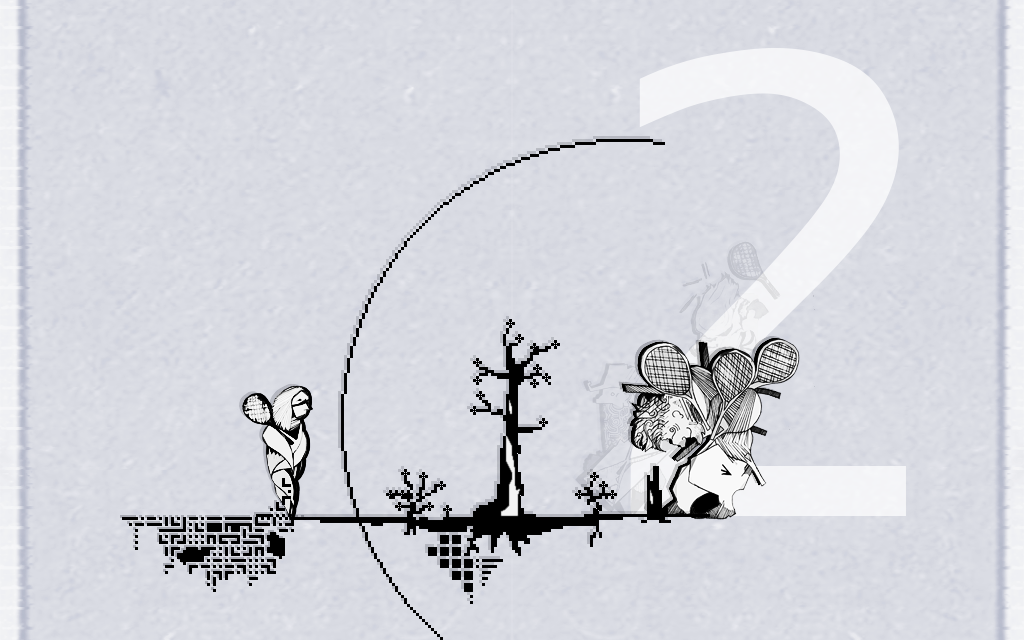
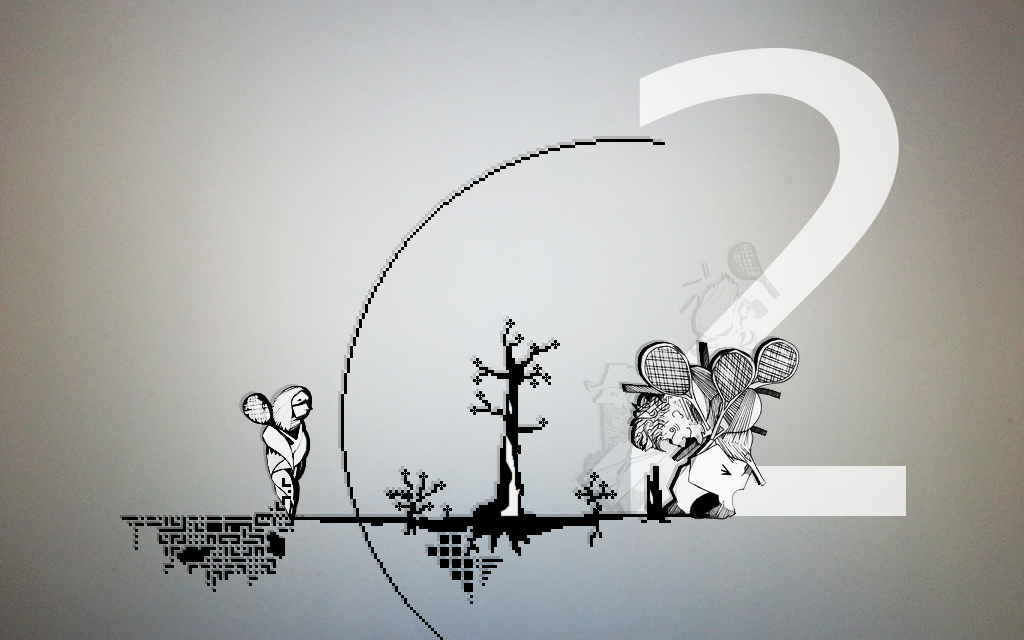
Pull latest backgrounds.

diff --git a/source/scene2view.cpp b/source/scene2view.cpp
@@ -5,7 +5,7 @@
 
 Scene2View::Scene2View()
 : font() {
-  bg.loadImage("ballscene.png");
+  bg.loadImage("500ball.png");
   font.loadFont(font_filename, 2, true, false, true, 0.0);
 }
 
@@ -43,9 +43,9 @@ void Scene2View::DrawBall(Scene2Model &model, ofVec2f position, float radius, fl
   ofSetColor(ofColor::black);
   ofCircle(position, radius);
   ofSetColor(ofColor(255, 0, 0).lerp(ofColor::black, model.score / 500.0));
-  const ofVec2f beam = radius * ofVec2f(cos(angle), sin(angle));
-  ofLine(position, position - beam);
-  ofLine(position, position + beam);
+  //const ofVec2f beam = radius * ofVec2f(cos(angle), sin(angle));
+  //ofLine(position, position - beam);
+  //ofLine(position, position + beam);
   ofPopStyle();
 }
 

diff --git a/source/introductionview.cpp b/source/introductionview.cpp
@@ -6,7 +6,7 @@
 #include "utilities.h"
 
 IntroductionView::IntroductionView() : background() {
-  background.loadImage("intro_drivingScreen2.png");
+  background.loadImage("intro_drivingScreen.png");
 }
 
 void IntroductionView::Setup() const {
